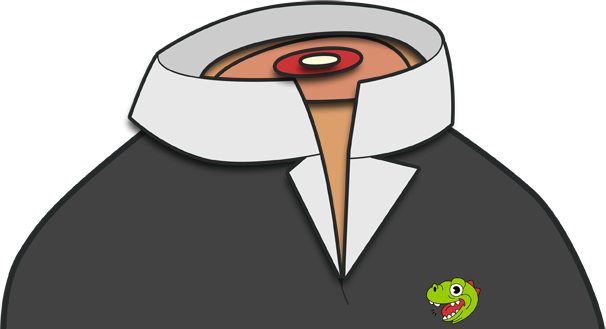
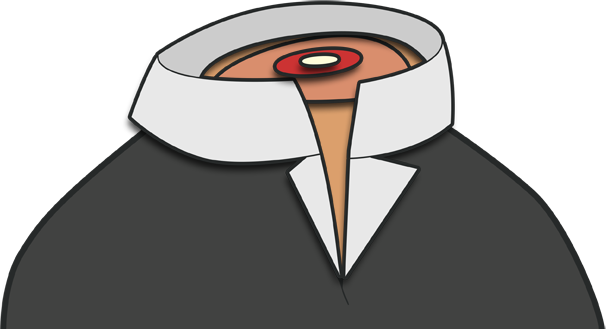
framed animations

Changed region(s): [[0.6832, 0.8207, 0.802, 1.0]]

diff --git a/UI/js/app.js b/UI/js/app.js
@@ -15,6 +15,7 @@ var App = (function ($) {
         eyeRight: $('#eye-right'),
         eyeballLeft: $('#eyeball-left'),
         eyeballRight: $('#eyeball-right'),
+        eyeDip: $('#eyedip-right'),
         ears: $('#ears'),
         sideTeeth: $('#side-teeth'),
         sideTeethSparkle: $('#side-teeth-sparkle'),
@@ -22,11 +23,13 @@ var App = (function ($) {
         zipperLeft: $('#zipper-left'),
         zipperRight: $('#zipper-right'),
         zipperTeeth: $('#zipper-teeth'),
+        zipperMouth: $('#zipper-mouth'),
         dog: $('#dog'),
         dogHead: $('#dog-head'),
         dogTail: $('#dog-tail'),
         dogLegFront: $('#dog-leg-front'),
-        dogLegBack: $('#dog-leg-back')
+        dogLegBack: $('#dog-leg-back'),
+        dino: $('#dino')
     };
 
     function getRandomInt(min, max) {
@@ -183,6 +186,43 @@ var App = (function ($) {
         tl.play();
     }
 
+    function multiframeAnimation(container, duration, delay) {
+        var frames = container.find('img'),
+            duration = duration || 0.2, //0.2s each frame
+            delay = delay || 2, //2s delay between animation loop
+            tl = new TimelineMax({repeat:-1, repeatDelay: delay});
+
+        // to be sure
+        TweenLite.set(frames, {visibility:"hidden"});
+
+        // forward
+        for (var i = 0; i < frames.length; i++) {
+            tl.add('frame-' + i).to(frames[i], duration, {visibility:'visible'});
+            tl.to(frames[i], 0, {visibility: 'hidden'});
+        };
+
+        // backward
+        for (var j = frames.length - 1; j >= 0; j--) {
+            tl.add('frame-' + j).to(frames[j], duration, {visibility:'visible'});
+            // show the first frame to prevent flicking
+            if (j > 0) {
+                tl.to(frames[j], 0, {visibility: 'hidden'});
+            };
+        };
+    }
+
+    function dinoRoar() {
+        multiframeAnimation(objects.dino);
+    }
+
+    function eyeDip() {
+        multiframeAnimation(objects.eyeDip, 0.3);
+    }
+
+    function zipperMouth() {
+        multiframeAnimation(objects.zipperMouth);
+    }
+
     function resize() {
         var windowHeight = $(window).height(),
             dudeHeight = objects.head.height() + objects.torso.height(),
@@ -205,6 +245,9 @@ var App = (function ($) {
         teethSparkle(objects.sideTeethSparkle);
         dogFly();
         dogRun();
+        dinoRoar();
+        eyeDip();
+        zipperMouth();
     }
 
     return {
@@ -217,9 +260,9 @@ var App = (function ($) {
 
             this.eyelash.init();
             animate();
-            zipperLeft();
-            zipperRight();
-            zipperTeeth();
+            // zipperLeft();
+            // zipperRight();
+            // zipperTeeth();
         }
     };
 

diff --git a/index.html b/index.html
@@ -33,7 +33,12 @@
                             <div id="eyebrow-right"></div>
                             <div id="eyeball-right"></div>
                         </div>
-                        <div id="eyedip-right"></div>
+                        <div id="eyedip-right" class="multiframeAnimation">
+                            <img src="UI/images/dip-1.png"/>
+                            <img src="UI/images/dip-2.png"/>
+                            <img src="UI/images/dip-3.png"/>
+                            <img src="UI/images/dip-4.png"/>
+                        </div>
                         <div id="nose"></div>
                         <clock-face id="clock"></clock-face>
                         <div id="actual-mouth"></div>
@@ -46,14 +51,20 @@
                         <div id="side-teeth">
                             <div id="side-teeth-sparkle" class="sparkle"></div>
                         </div>
-                        <div id="zipper-mouth">
-                            <div id="zipper-left"></div>
-                            <div id="zipper-right"></div>
-                            <div id="zipper-teeth"></div>
+                        <div id="zipper-mouth" class="multiframeAnimation">
+                            <img src="UI/images/zip-1.png"/>
+                            <img src="UI/images/zip-2.png"/>
+                            <img src="UI/images/zip-3.png"/>
+                            <img src="UI/images/zip-4.png"/>
                         </div>
                     </div>
                 </section>
                 <section id="torso">
+                    <div id="dino" class="multiframeAnimation">
+                        <img src="UI/images/dino-1.png"/>
+                        <img src="UI/images/dino-2.png"/>
+                        <img src="UI/images/dino-3.png"/>
+                    </div>
                 </section>
             </section>
         </div>

diff --git a/UI/sass/_torso.scss b/UI/sass/_torso.scss
@@ -11,3 +11,23 @@
     z-index: 2;
     bottom: 0;
 }
+
+#dino {
+    @include gpu();
+    width: 57px;
+    height: 50px;
+    background-repeat: no-repeat;
+    position: absolute;
+    z-index: 6;
+    bottom: 5px;
+    right: 125px;
+}
+
+.multiframeAnimation {
+    img {
+        position: absolute;
+        top: 0;
+        left: 0;
+        visibility:hidden;
+    }
+}

diff --git a/UI/sass/_head.scss b/UI/sass/_head.scss
@@ -242,7 +242,6 @@
     margin-left: 316px;
     width: 175px;
     height: 265px;
-    background-image: url('../images/eyedip-right.png');
 }
 
 #zipper-mouth {
